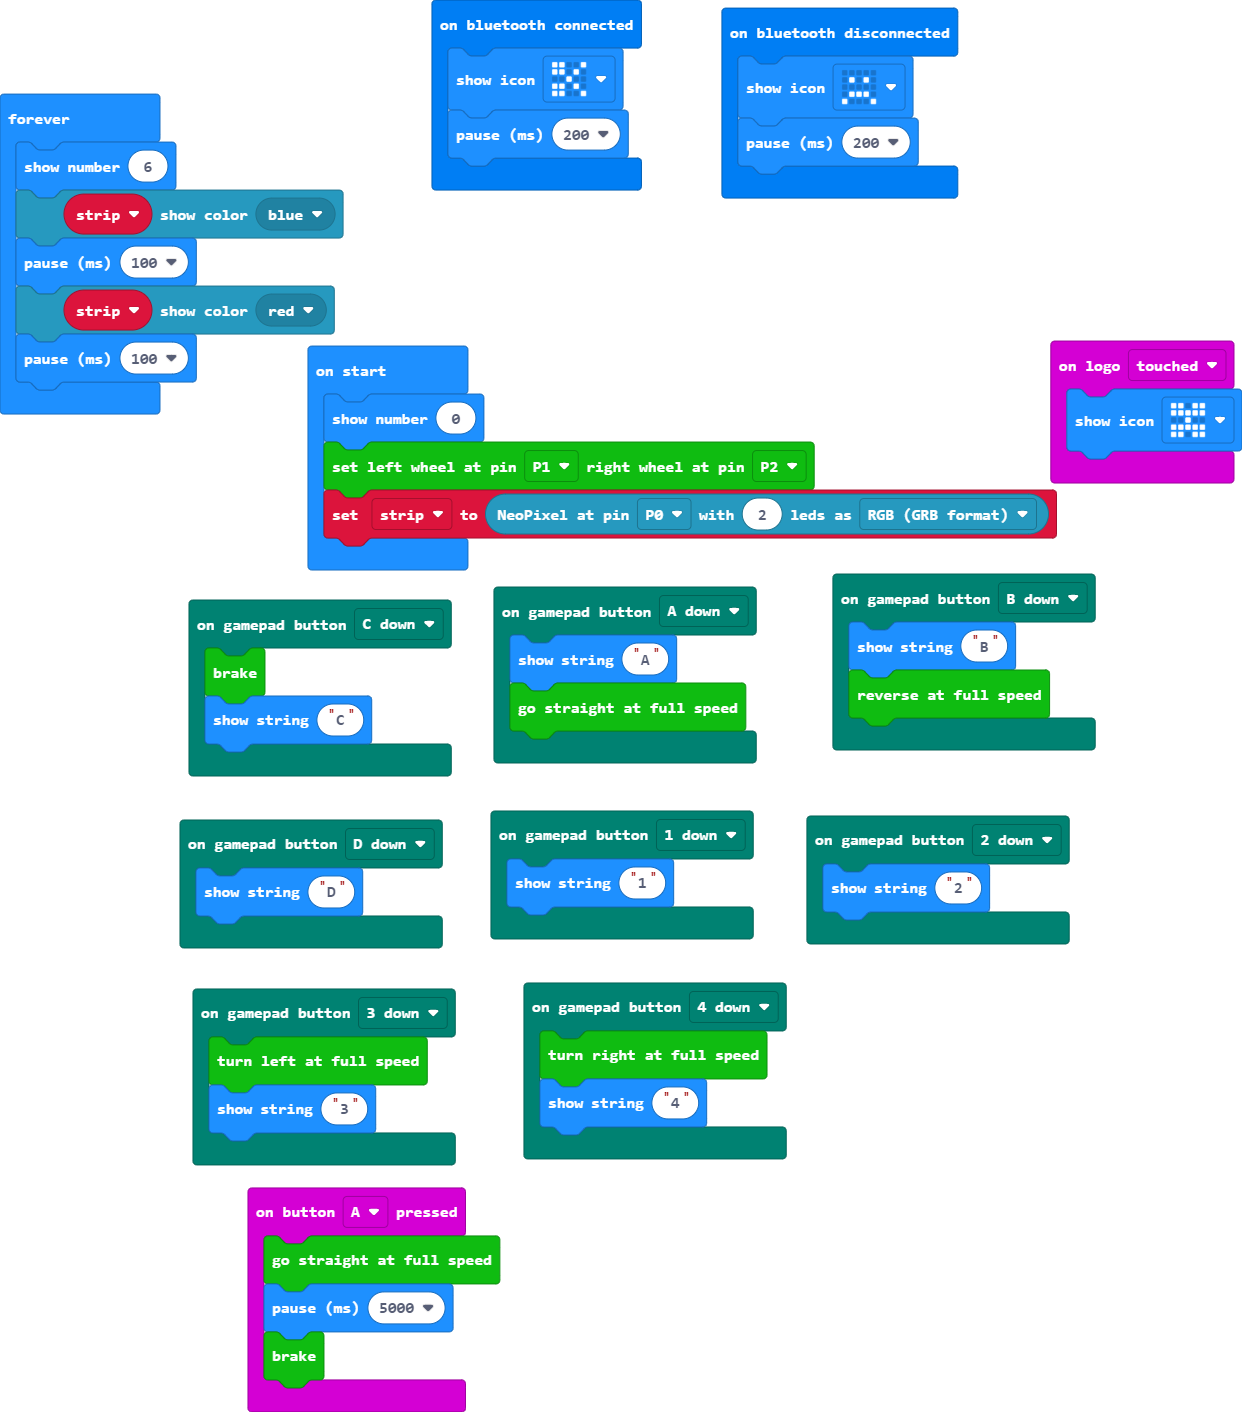
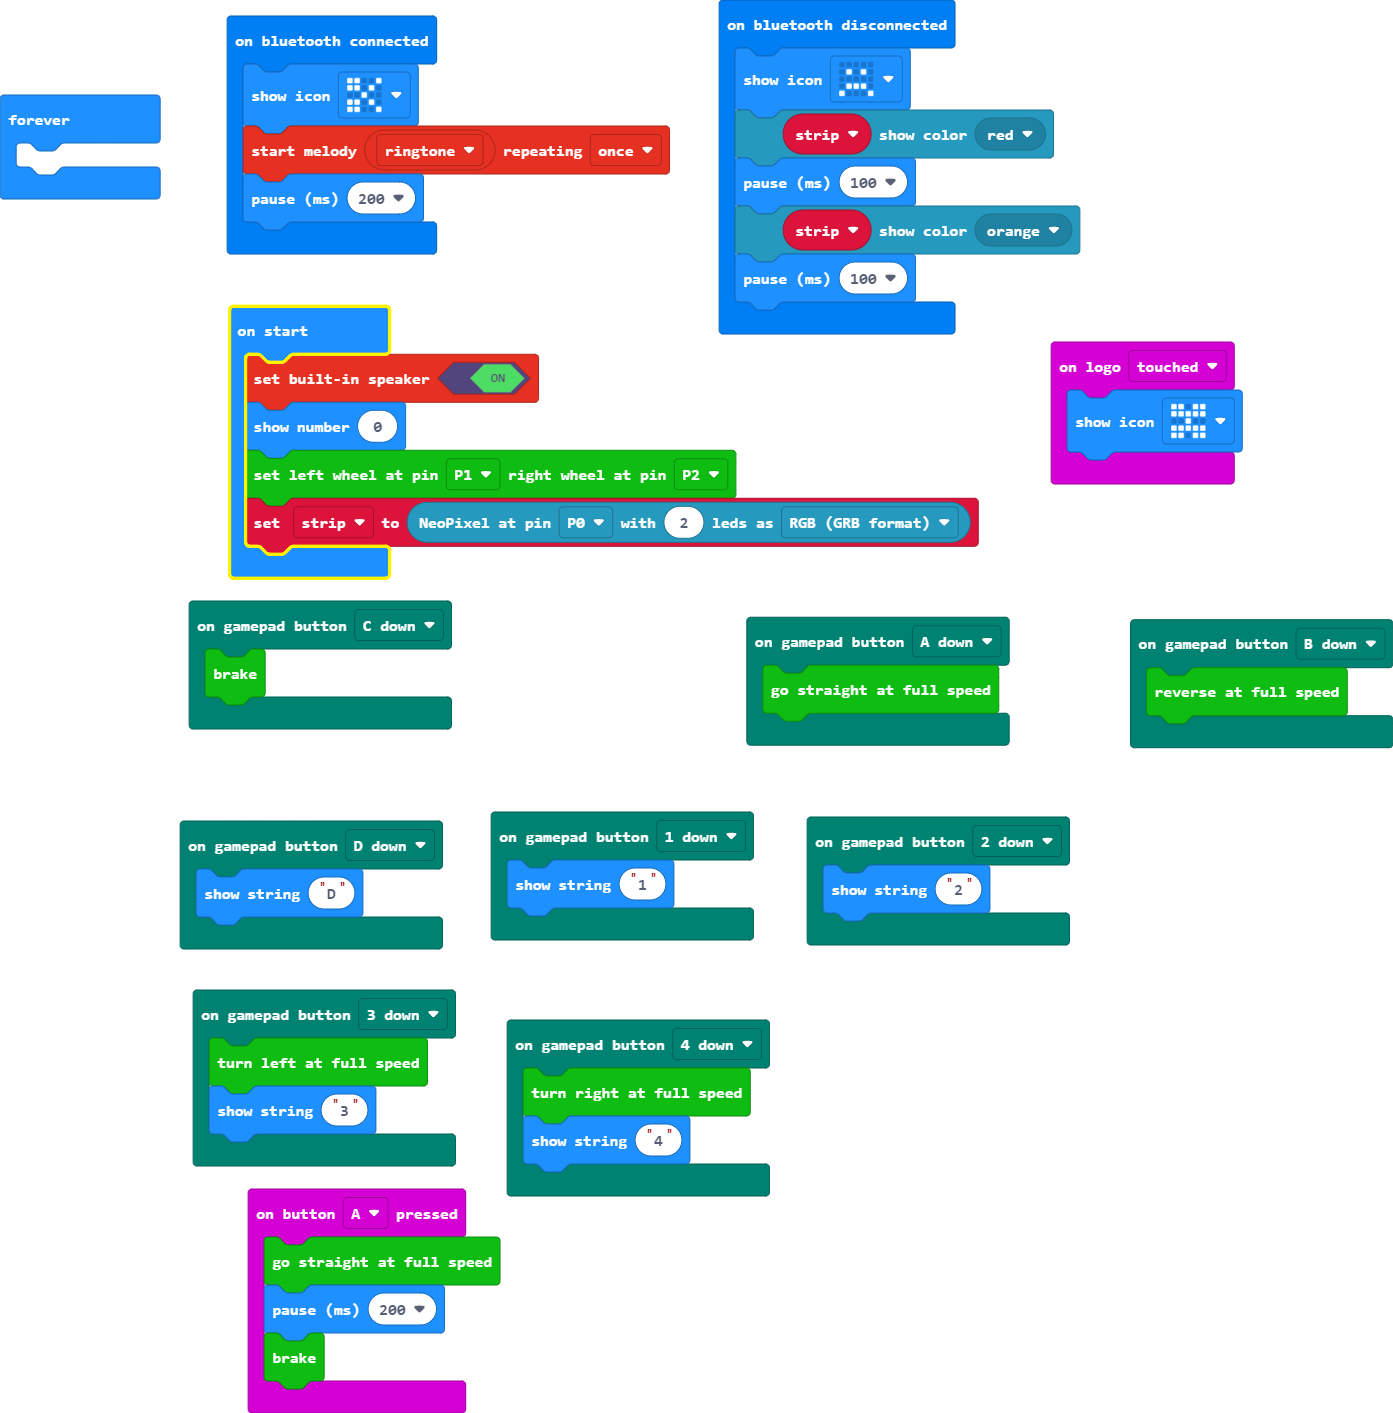
Update main.blocks, main.ts, main.py

diff --git a/main.ts b/main.ts
@@ -8,19 +8,22 @@ devices.onGamepadButton(MesDpadButtonInfo._3Down, function () {
 })
 bluetooth.onBluetoothConnected(function () {
     basic.showIcon(IconNames.Scissors)
+    music.startMelody(music.builtInMelody(Melodies.Ringtone), MelodyOptions.Once)
     basic.pause(200)
 })
 bluetooth.onBluetoothDisconnected(function () {
     basic.showIcon(IconNames.Sad)
-    basic.pause(200)
+    strip.showColor(neopixel.colors(NeoPixelColors.Red))
+    basic.pause(100)
+    strip.showColor(neopixel.colors(NeoPixelColors.Orange))
+    basic.pause(100)
 })
 devices.onGamepadButton(MesDpadButtonInfo.BDown, function () {
-    basic.showString("B")
     RingbitCar.back()
 })
 input.onButtonPressed(Button.A, function () {
     RingbitCar.forward()
-    basic.pause(5000)
+    basic.pause(200)
     RingbitCar.brake()
 })
 devices.onGamepadButton(MesDpadButtonInfo._2Down, function () {
@@ -31,10 +34,8 @@ devices.onGamepadButton(MesDpadButtonInfo.DDown, function () {
 })
 devices.onGamepadButton(MesDpadButtonInfo.CDown, function () {
     RingbitCar.brake()
-    basic.showString("C")
 })
 devices.onGamepadButton(MesDpadButtonInfo.ADown, function () {
-    basic.showString("A")
     RingbitCar.forward()
 })
 devices.onGamepadButton(MesDpadButtonInfo._1Down, function () {
@@ -43,13 +44,11 @@ devices.onGamepadButton(MesDpadButtonInfo._1Down, function () {
 input.onLogoEvent(TouchButtonEvent.Touched, function () {
     basic.showIcon(IconNames.Butterfly)
 })
+let strip: neopixel.Strip = null
+music.setBuiltInSpeakerEnabled(true)
 basic.showNumber(0)
 RingbitCar.init_wheel(AnalogPin.P1, AnalogPin.P2)
-let strip = neopixel.create(DigitalPin.P0, 2, NeoPixelMode.RGB)
+strip = neopixel.create(DigitalPin.P0, 2, NeoPixelMode.RGB)
 basic.forever(function () {
-    basic.showNumber(6)
-    strip.showColor(neopixel.colors(NeoPixelColors.Blue))
-    basic.pause(100)
-    strip.showColor(neopixel.colors(NeoPixelColors.Red))
-    basic.pause(100)
+	
 })

diff --git a/main.py b/main.py
@@ -8,11 +8,15 @@ devices.onGamepadButton(MesDpadButtonInfo._3Down, function () {
 })
 bluetooth.onBluetoothConnected(function () {
     basic.showIcon(IconNames.Scissors)
+    music.startMelody(music.builtInMelody(Melodies.Ringtone), MelodyOptions.Once)
     basic.pause(200)
 })
 bluetooth.onBluetoothDisconnected(function () {
     basic.showIcon(IconNames.Sad)
-    basic.pause(200)
+    strip.showColor(neopixel.colors(NeoPixelColors.Red))
+    basic.pause(100)
+    strip.showColor(neopixel.colors(NeoPixelColors.Orange))
+    basic.pause(100)
 })
 devices.onGamepadButton(MesDpadButtonInfo.BDown, function () {
     basic.showString("B")
@@ -20,7 +24,7 @@ devices.onGamepadButton(MesDpadButtonInfo.BDown, function () {
 })
 input.onButtonPressed(Button.A, function () {
     RingbitCar.forward()
-    basic.pause(5000)
+    basic.pause(200)
     RingbitCar.brake()
 })
 devices.onGamepadButton(MesDpadButtonInfo._2Down, function () {
@@ -43,13 +47,11 @@ devices.onGamepadButton(MesDpadButtonInfo._1Down, function () {
 input.onLogoEvent(TouchButtonEvent.Touched, function () {
     basic.showIcon(IconNames.Butterfly)
 })
+let strip: neopixel.Strip = null
+music.setBuiltInSpeakerEnabled(true)
 basic.showNumber(0)
 RingbitCar.init_wheel(AnalogPin.P1, AnalogPin.P2)
-let strip = neopixel.create(DigitalPin.P0, 2, NeoPixelMode.RGB)
+strip = neopixel.create(DigitalPin.P0, 2, NeoPixelMode.RGB)
 basic.forever(function () {
-    basic.showNumber(6)
-    strip.showColor(neopixel.colors(NeoPixelColors.Blue))
-    basic.pause(100)
-    strip.showColor(neopixel.colors(NeoPixelColors.Red))
-    basic.pause(100)
+	
 })
